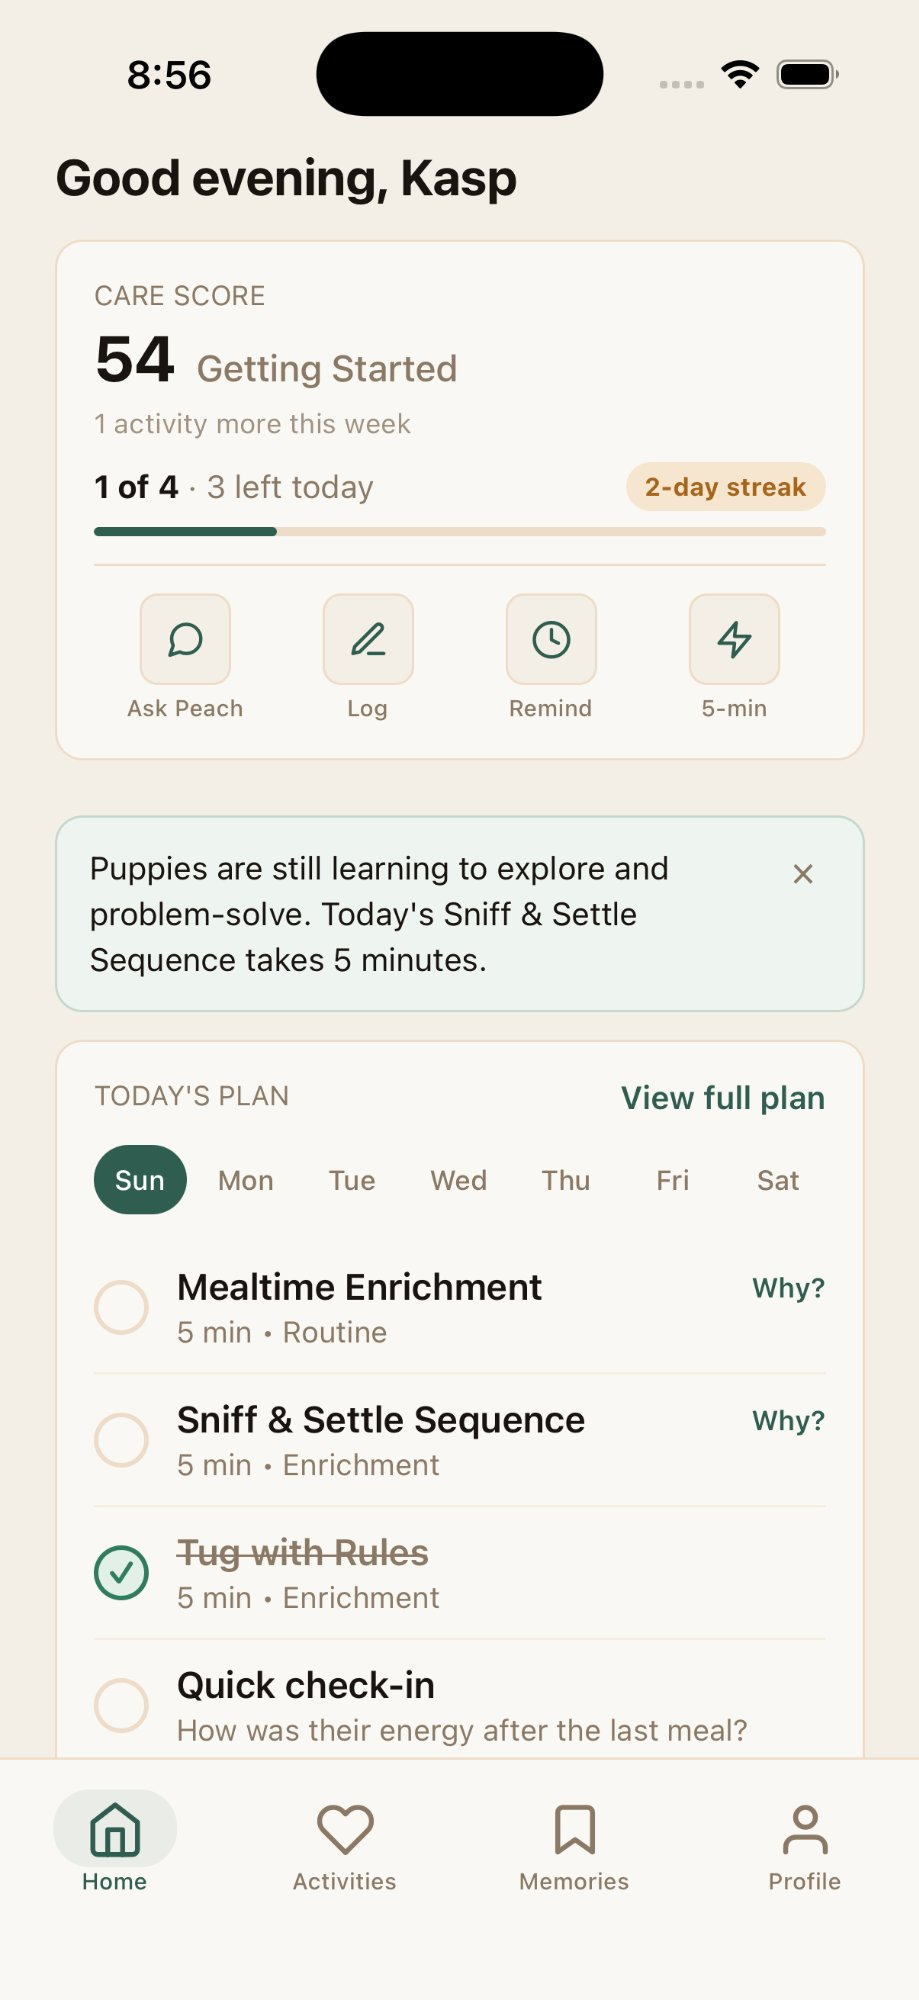
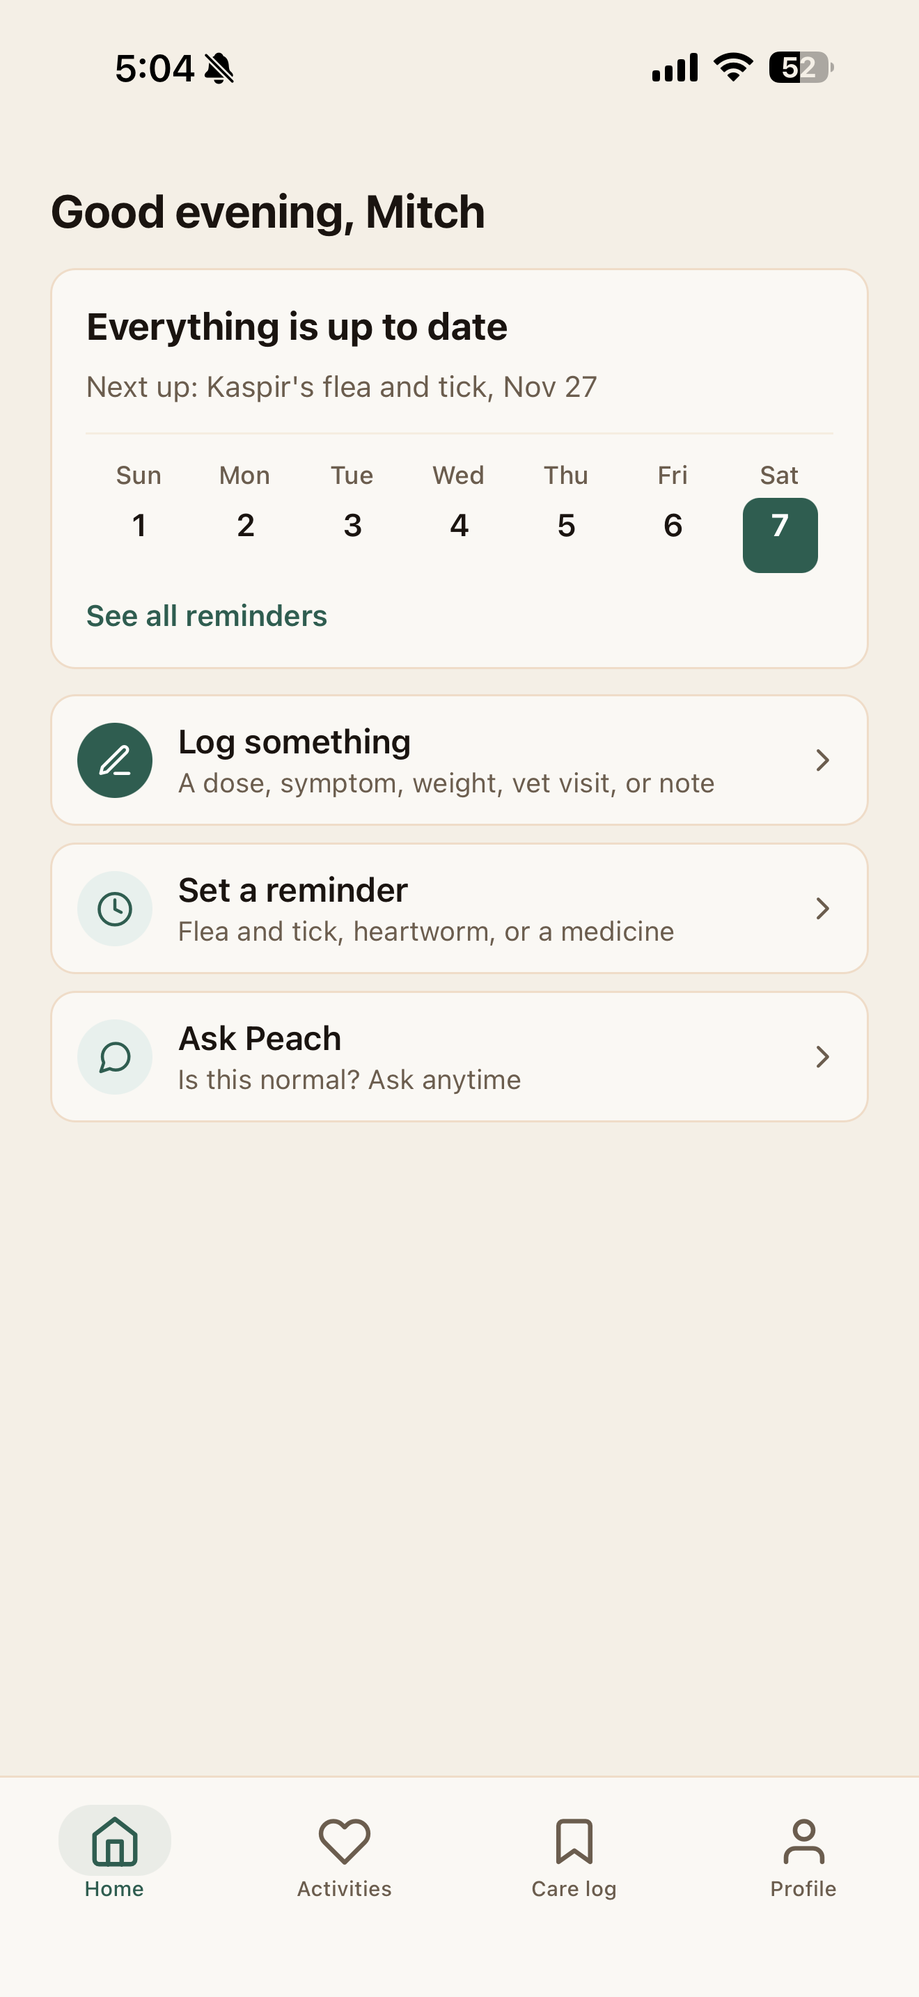
Update hero phone mockup to the new app home screen
Replace app-home.png with the current home screen (reminders card,
Log something, Set a reminder, Ask Peach) and update its alt text.

Claude-Session: https://claude.ai/code/session_01RzrYwZGa5JJUXNFk2bUUvL

diff --git a/index.html b/index.html
@@ -203,7 +203,7 @@ footer{border-top:1px solid var(--border);padding:32px 40px;display:flex;justify
   <div class="hero-visual">
     <div class="phone-frame">
       <div class="phone-screen">
-        <img src="app-home.png" alt="Zenoomi home screen showing Care Score, daily plan, and today's activities">
+        <img src="app-home.png" alt="Zenoomi home screen showing upcoming reminders, a weekly calendar, and buttons to log care, set a reminder, or ask Peach">
       </div>
     </div>
   </div>
